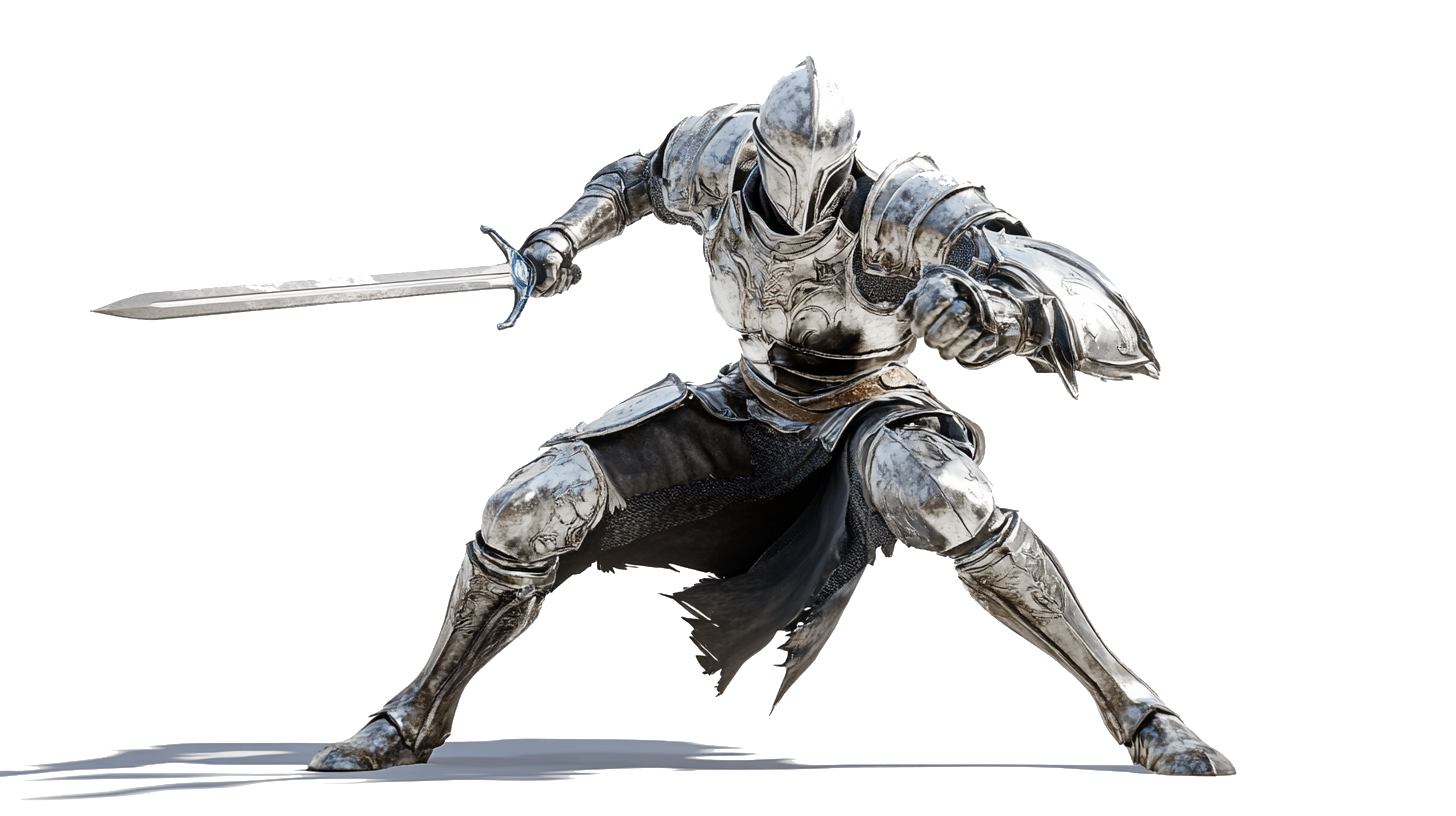
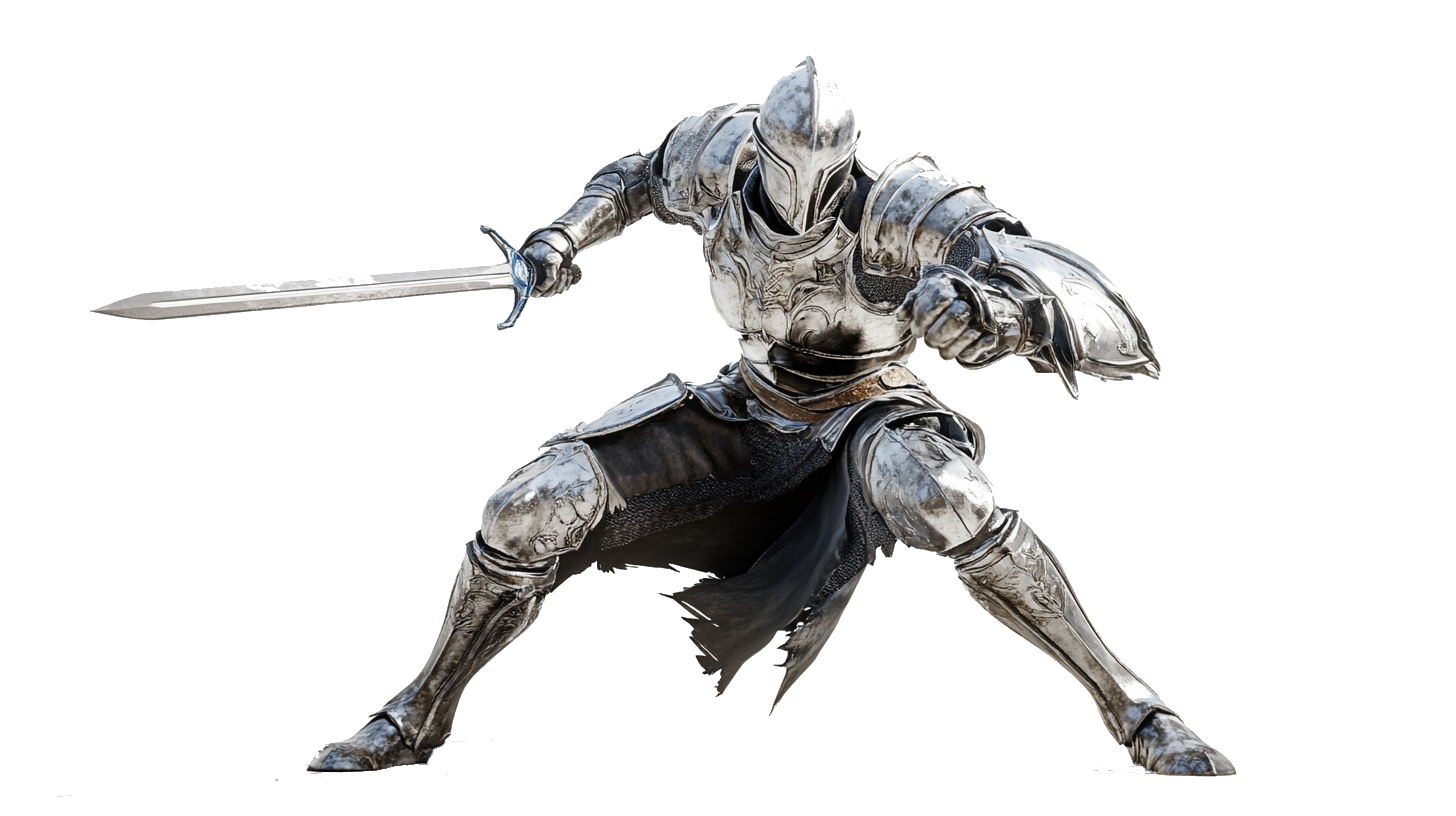
[KBW-38][ADD] Warrior photo

Changed region(s): [[0.0, 0.8885, 0.8036, 0.9804]]

diff --git a/src/components/battle/Opponent.tsx b/src/components/battle/Opponent.tsx
@@ -1,3 +1,4 @@
+import { useState } from "react";
 import { Player } from "../../interfaces/Player";
 
 interface OpponentProps{
@@ -5,9 +6,16 @@ interface OpponentProps{
 }
 
 const Opponent: React.FC<OpponentProps> = ({player}) => {
+
+  const [warriorPhoto, setWarriorPhoto] = useState('/images/Warrior1.png');
+
   return (
-    <div className="w-[25%] h-[98%] -ml-[10%] mt-[3%]">
-      {player.nickname}
+    <div className="w-[45%] h-[90%] mr-[5%] mt-[15%]">
+
+      <img src={warriorPhoto}
+        alt="Player Avatar"
+        className="h-full w-full object-cover z-0"
+      />
     </div>
   )
 }
